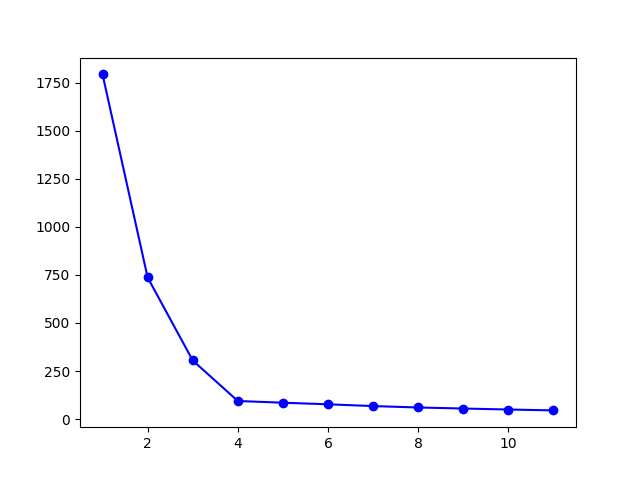
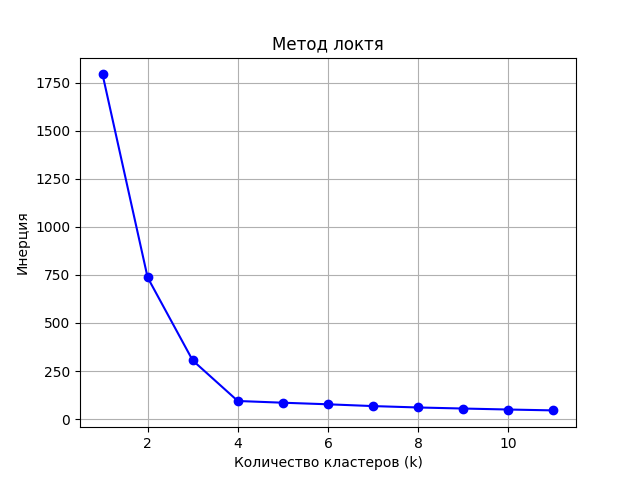
Подготовлено общее задание и первое индивидуальное задание лабораторной работы 6

diff --git a/main.py b/main.py
@@ -5,24 +5,241 @@
 #plt.ylabel('some numbers')
 #plt.savefig('myplot.png')
 
+# ============================================
+# БЛОК 1: ГЕНЕРАЦИЯ И ЗАГРУЗКА ДАННЫХ
+# ============================================
 from sklearn.datasets import make_blobs
 import pandas as pd
+
+# Генерация синтетического набора данных: 200 точек, 2 признака, 4 центра
+dataset, classes = make_blobs(n_samples=200, n_features=2, centers=4, cluster_std=0.5, random_state=0)
+
+# Преобразование в DataFrame для удобной работы
+df = pd.DataFrame(dataset, columns=['var1', 'var2'])
+
+# Вывод первых двух строк для контроля (аналог "вывести первые строки" из блок-схемы)
+print(df.head(2))
+
+
+# ============================================
+# БЛОК 2: ВЫБОР ОПТИМАЛЬНОГО КОЛИЧЕСТВА КЛАСТЕРОВ (МЕТОД ЛОКТЯ)
+# ============================================
 from sklearn.cluster import KMeans
 import matplotlib.pyplot as plt
 
-dataset, classes=make_blobs(n_samples=200,n_features=2,centers=4, cluster_std=0.5, random_state=0)
-df=pd.DataFrame(dataset, columns=['var1','var2'])
-print(df.head(2))
+# Расчет инерции (суммы квадратов ошибок) для k от 1 до 11
+# Используется List Comprehension для компактности
+inertias = [KMeans(n_clusters=k, n_init=10, random_state=0).fit(df).inertia_ for k in range(1, 12)]
 
-inertias = [KMeans(n_clusters=k, n_init=10, random_state=0).fit(df).inertia_ for k in range(1,12)]
-plt.plot(range(1,12), inertias, 'bo-')
-plt.savefig('elbow.png') 
+# Построение графика зависимости инерции от количества кластеров
+plt.plot(range(1, 12), inertias, 'bo-')  # 'bo-' — синие кружки с линией
+plt.grid(True)  # Добавление сетки для наглядности
+plt.xlabel('Количество кластеров (k)')
+plt.ylabel('Инерция')
+plt.title('Метод локтя')
+plt.savefig('elbow.png')  # Сохранение графика в файл
+plt.close()
 
-kmeans=KMeans(n_clusters=4,init='k-means++',random_state=0).fit(df)
-print(kmeans.labels_)
-print(kmeans.cluster_centers_)
-print(kmeans.inertia_)
-print(kmeans.n_iter_)
+
+# ============================================
+# БЛОК 3: ФИНАЛЬНАЯ КЛАСТЕРИЗАЦИЯ С ОПТИМАЛЬНЫМ k
+# ============================================
+# Примечание: В вашей блок-схеме оптимальное k выбирается по излому графика.
+# В коде вы жестко задали k=4, но по логике блок-схемы здесь должно быть:
+# optimal_k = find_elbow(inertias)  # Анализ графика
+# kmeans = KMeans(n_clusters=optimal_k, ...)
+
+kmeans = KMeans(n_clusters=4, init='k-means++', random_state=0).fit(df)
+
+# Извлечение результатов кластеризации
+print(kmeans.labels_)          # Метки кластеров для каждой точки
+print(kmeans.cluster_centers_) # Координаты центров кластеров
+print(kmeans.inertia_)         # Сумма квадратов ошибок
+print(kmeans.n_iter_)          # Количество итераций
+
+
+# ============================================
+# БЛОК 4: АНАЛИЗ РАСПРЕДЕЛЕНИЯ ТОЧЕК ПО КЛАСТЕРАМ
+# ============================================
 from collections import Counter
-Counter(kmeans.labels_)
+
+# Подсчет количества точек в каждом кластере (аналог "размер каждого кластера" из схемы)
 print(Counter(kmeans.labels_))
+
+
+# ============================================
+# БЛОК 5: ВИЗУАЛИЗАЦИЯ РЕЗУЛЬТАТОВ (ДИАГРАММА РАССЕИВАНИЯ)
+# ============================================
+import seaborn as sns
+
+# Построение диаграммы рассеивания с цветовой кодировкой по кластерам
+sns.scatterplot(data=df, x='var1', y='var2', hue=kmeans.labels_)
+
+# Добавление центров кластеров на график (красные крестики)
+plt.scatter(kmeans.cluster_centers_[:, 0], kmeans.cluster_centers_[:, 1], 
+            marker="X", c="r", s=80, label="Centroids")
+
+plt.legend()  # Отображение легенды
+plt.grid(True, alpha=0.3)  # Сетка с прозрачностью 0.3
+plt.xlabel('var1')
+plt.ylabel('var2')
+plt.title('Результаты кластеризации')
+plt.savefig('neww.png')  # Сохранение итогового графика
+plt.close()
+
+
+# ==================== ИНДИВИДУАЛЬНОЕ ЗАДАНИЕ====================
+# ================================================================
+# БЛОК 1: ПОДКЛЮЧЕНИЕ БИБЛИОТЕК
+# ================================================================
+from sklearn.datasets import make_blobs
+from sklearn.preprocessing import LabelEncoder, StandardScaler
+import pandas as pd
+from sklearn.cluster import KMeans
+import matplotlib.pyplot as plt
+from collections import Counter
+import numpy as np
+
+# ================================================================
+# БЛОК 2: ГЕНЕРАЦИЯ ДАННЫХ (соответствует блоку "Генерация набора данных")
+# ================================================================
+# Параметры для генерации
+n_samples = 200
+n_features = 2
+centers = 3
+
+# Генерируем числовые данные (синтетический набор с 3 центрами)
+dataset, numeric_classes = make_blobs(
+    n_samples=n_samples,
+    n_features=n_features,
+    centers=centers,
+    cluster_std=0.5,
+    random_state=0
+)
+
+# Масштабируем параметры в нужные диапазоны (0.01-1 и 1-300)
+# Ключевая строка: интерполяция данных в заданные границы
+param1 = np.interp(dataset[:, 0], [dataset[:, 0].min(), dataset[:, 0].max()], [0.01, 1])
+param2 = np.interp(dataset[:, 1], [dataset[:, 1].min(), dataset[:, 1].max()], [1, 300])
+
+# Генерируем параметр 3 (города) - соответствие классам make_blobs
+city_mapping = {0: 'Самара', 1: 'Тольятти', 2: 'Москва'}
+param3 = [city_mapping[cls] for cls in numeric_classes]
+
+# Создаем DataFrame
+df = pd.DataFrame({
+    'param1': param1,
+    'param2': param2,
+    'city': param3
+})
+
+# Вывод первых строк (соответствует блоку "Вывести в консоль")
+print("Сгенерированные данные (первые 10 записей):")
+print(df.head(10))
+print(f"\nРазмер данных: {df.shape}")
+print(f"\nРаспределение по городам:\n{Counter(df['city'])}")
+
+# ================================================================
+# БЛОК 3: ПРЕОБРАЗОВАНИЕ ТЕКСТОВЫХ ЗНАЧЕНИЙ В ЧИСЛОВОЙ КОД
+# (соответствует блоку "Преобразование текстовых значений...")
+# ================================================================
+print("\n" + "="*50)
+print("ПУНКТ 5: ПОДГОТОВКА ДАННЫХ ДЛЯ КЛАСТЕРИЗАЦИИ")
+print("="*50)
+
+# Кодируем города с помощью LabelEncoder
+label_encoder = LabelEncoder()
+df['city_encoded'] = label_encoder.fit_transform(df['city'])
+print("Кодирование городов:")
+for city, code in zip(label_encoder.classes_, range(len(label_encoder.classes_))):
+    print(f"  {city} -> {code}")
+
+# ================================================================
+# БЛОК 4: НОРМИРОВАНИЕ ЧИСЛОВЫХ ПАРАМЕТРОВ
+# (соответствует блоку "Нормирование числовых параметров")
+# ================================================================
+# Матрица признаков (только числовые параметры для визуализации)
+X = df[['param1', 'param2']].values
+
+# Стандартизация (нормирование) признаков
+scaler = StandardScaler()
+X_scaled = scaler.fit_transform(X)
+
+# ================================================================
+# БЛОК 5: ОПРЕДЕЛЕНИЕ ОПТИМАЛЬНОГО КОЛИЧЕСТВА КЛАСТЕРОВ (МЕТОД ЛОКТЯ)
+# (соответствует блоку "Определение оптимального количества кластеров...")
+# ================================================================
+print("\n" + "="*50)
+print("ПУНКТ 6: КЛАСТЕРИЗАЦИЯ И ВИЗУАЛИЗАЦИЯ")
+print("="*50)
+
+# Расчет инерции для k от 1 до 11
+print("\nОпределение оптимального количества кластеров...")
+# Ключевая строка: List Comprehension для расчета инерции
+inertias = [KMeans(n_clusters=k, n_init=10, random_state=0).fit(X_scaled).inertia_ for k in range(1,12)]
+
+# Построение графика метода локтя
+plt.plot(range(1,12), inertias, 'bo-')
+plt.grid(True)
+plt.xlabel('Количество кластеров (k)')
+plt.ylabel('Инерция')
+plt.title('Метод локтя')
+plt.savefig('elbow_method_kmeans.png')
+plt.close()
+print("График 'elbow_method_kmeans.png' сохранен")
+
+# ================================================================
+# БЛОК 6: ВЫПОЛНЕНИЕ КЛАСТЕРИЗАЦИИ С ОПТИМАЛЬНЫМ k
+# (соответствует блоку "Выполнение кластеризации...")
+# ================================================================
+# Выбор оптимального k (в данном примере - по графику локтя выбрано 3)
+optimal_k = 3
+print(f"\nВыполнение кластеризации с k={optimal_k}...")
+
+# Ключевая строка: инициализация и обучение модели KMeans
+kmeans = KMeans(n_clusters=optimal_k, init='k-means++', random_state=0, n_init=10)
+kmeans.fit(X_scaled)
+df['cluster'] = kmeans.labels_
+
+# Обратное масштабирование центроидов в исходные координаты
+# Ключевая строка: обратное преобразование для визуализации
+centroids_original = scaler.inverse_transform(kmeans.cluster_centers_)
+
+# ================================================================
+# БЛОК 7: ВЫВОД РЕЗУЛЬТАТОВ В КОНСОЛЬ
+# (соответствует блоку "Вывести в консоль: распределение точек...")
+# ================================================================
+print("\nРезультаты кластеризации:")
+print(f"Метки кластеров: {Counter(kmeans.labels_)}")
+print(f"Инерция: {kmeans.inertia_}")
+print(f"Количество итераций: {kmeans.n_iter_}")
+print(f"\nЦентроиды в исходных координатах (param1, param2):")
+for i, centroid in enumerate(centroids_original):
+    print(f"  Кластер {i}: param1={centroid[0]:.3f}, param2={centroid[1]:.1f}")
+
+# Сравнение реальных городов с кластерами (анализ соответствия)
+print("\nСравнение реальных городов с кластерами:")
+print(pd.crosstab(df['city'], df['cluster']))
+
+# ================================================================
+# БЛОК 8: ВИЗУАЛИЗАЦИЯ РЕЗУЛЬТАТОВ (ДИАГРАММА РАССЕИВАНИЯ)
+# (соответствует блоку "Построить диаграмму рассеивания и сохранить")
+# ================================================================
+# Построение итоговой диаграммы рассеивания
+plt.figure()
+plt.scatter(df['param1'], df['param2'], c=df['cluster'], cmap='viridis', s=50)
+# Добавление центроидов на график (используются обратно масштабированные координаты)
+plt.scatter(centroids_original[:, 0], centroids_original[:, 1], 
+            marker="X", c="r", s=200, label="Centroids")
+plt.legend()
+plt.grid(True, alpha=0.3)
+plt.xlabel('param1')
+plt.ylabel('param2')
+plt.title('Результаты кластеризации')
+plt.savefig('clustering_results_kmeans.png')
+plt.close()
+print("График 'clustering_results_kmeans.png' сохранен")
+
+print("\n" + "="*50)
+print("МИКРОСЕРВИС УСПЕШНО ВЫПОЛНИЛ ЗАДАЧУ")
+print("="*50)